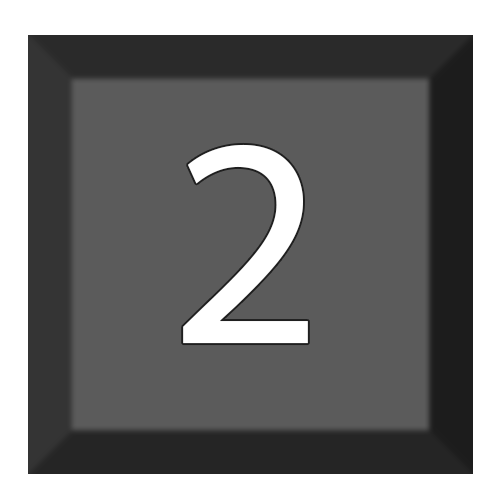
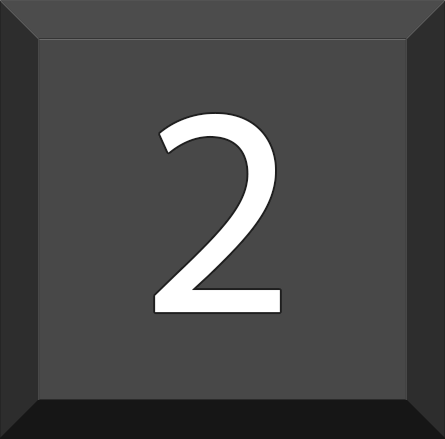
final style updates. fixed the buttons graphically

diff --git a/server/public/styles/style.css b/server/public/styles/style.css
@@ -1,15 +1,18 @@
 h1 {
-    color: darkmagenta;
+    color: darkslategrey;
+    font-family: sans-serif;
     text-align: left justify;
     font-size: 40px;
 }
 
 body{
+    background-color: darkgray;
     text-align: left;
     font-size: 30px;
 }
 
 .clickablebuttons {
+    color: darkgray;
     height: 100px;
     width: 100px;
    border: 0;
@@ -18,8 +21,11 @@ body{
     padding: 0;
 }
 #calculatorscreen {
+    color: darkslategray;
     margin-left: 5px;
-    width: 308px;
+    margin-bottom: 5px;
+    background-color: gray;
+    width: 285px;
     height: 50px;
     font-size: 30px;
     font-family: monospace;
@@ -118,16 +124,21 @@ body{
     background-size: contain;
 }
 #clearbutton {
-    margin-left: 20px;
+    margin-left: 0px;
+    margin-bottom: 5px;
     padding: 28px;
-    width: 70px;
-    height: 70px;
+    width: 55px;
+    height: 55px;
     background-repeat: no-repeat;
     background-image: url('../calculator/clear.png');
     background-size: contain;
 }
 #allClear {
-    
+    margin-bottom: 5px;
+    margin-left: 0px;
+    padding: 28px;
+    width: 55px;
+    height: 55px;
     background-repeat: no-repeat;
     background-image: url('../calculator/allClear.png');
     background-size: contain;

diff --git a/server/public/scripts/client.js b/server/public/scripts/client.js
@@ -168,7 +168,7 @@ function renderCalculations(calcObject) {
     calculationHistory.innerHTML = ""
     calcObject.reverse()
     // newCalcSpot.innerHTML += `<div>${calcObject[calcObject.length].numOne} ${calcObject[calcObject.length].operator} ${calcObject[calcObject.length].numTwo} = ${calcObject[calcObject.length].answer}</div>`
-    document.getElementById('calculatorscreen').value = `${calcObject[0].result}`
+    // document.getElementById('calculatorscreen').value = `${calcObject[0].result}`
     newCalcSpot.innerHTML += `<div><h1><b>${calcObject[0].result}</b></h1></div>`
     for (let i = 0; i < calcObject.length; i++) {
 

diff --git a/server/server.js b/server/server.js
@@ -13,10 +13,7 @@ app.use(express.static('server/public'));
 let calculations = []
 
 
-// var string = '1+23+4+5-30';
-// console.log("testing the mathifier",
-//   addbits(string)
-// )
+
 
 function calculator(string) {
   let calculation = string.split(/\b\s*([+\/*-])\s*/)
